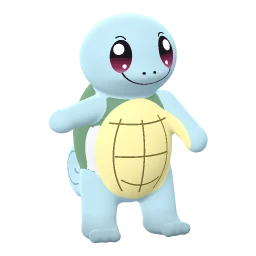
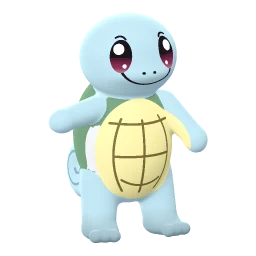
fix(models): Wingull's wings are long and broad like the art, tapering to a deep swallowtail fork instead of thin planks, Squirtle's mouth, brows, shell seams and tail curl are drawn thicker so they stay smooth up close, and Tyler's hood lining runs only round the back and sides so it stops flecking

diff --git a/src/game/scene/pokemon/recipes/007-squirtle.js b/src/game/scene/pokemon/recipes/007-squirtle.js
@@ -47,7 +47,7 @@ const spiral = () => {
     const mid = ((phi - 45) * Math.PI) / 180, end = ((phi - 90) * Math.PI) / 180;
     const m = 0.854 * r;
     // decal frame on the +x face (dir +x): u = -z, v = +y, so turn = 90 deg - mid puts a frown's apex along mid
-    out.push({ kind: "frown", at: [0.09, c[1] + m * Math.sin(mid), c[0] + m * Math.cos(mid)], dir: [1, 0, 0], w: 1.414 * r, h: 0.293 * r, thick: 0.0075, turn: Math.PI / 2 - mid, color: CURL, lit: true, mirror: true });
+    out.push({ kind: "frown", at: [0.09, c[1] + m * Math.sin(mid), c[0] + m * Math.cos(mid)], dir: [1, 0, 0], w: 1.414 * r, h: 0.293 * r, thick: 0.011, turn: Math.PI / 2 - mid, color: CURL, lit: true, mirror: true });
     const next = rho[k + 1];
     if (next) c = [c[0] + (r - next) * Math.cos(end), c[1] + (r - next) * Math.sin(end)];
     phi -= 90;
@@ -69,8 +69,9 @@ const toes = () =>
 // rim band in the side plane, (z, y): front edge tucked under the plastron's edge, back edge just past the widest point
 const RIM_BAND = [[0.105, 0.505], [0.122, 0.42], [0.118, 0.34], [0.095, 0.285], [0.055, 0.268], [0.025, 0.3], [0.018, 0.4], [0.028, 0.485], [0.06, 0.522]];
 
-// a seam stroke on the plastron or a plate line on the carapace (lit decals: they shade with the shell)
-const stroke = (kind, at, w, h, turn = 0, color = SEAM, thick = 0.007) => ({ kind, at, w, h, thick, turn, color, lit: true });
+// a seam stroke on the plastron or a plate line on the carapace (lit decals: they shade with the shell), thick enough
+// to stay smooth up close (model-audit.md, smaller notes)
+const stroke = (kind, at, w, h, turn = 0, color = SEAM, thick = 0.011) => ({ kind, at, w, h, thick, turn, color, lit: true });
 
 const recipe = {
   name: "Squirtle",
@@ -127,9 +128,9 @@ const recipe = {
     ],
     mouth: [
       // a wide smile along the bottom of the snout, turning up at the ends
-      { kind: "smile", at: [0, 0.728, 0.23], w: 0.25, h: 0.035, thick: 0.007, color: DARK },
+      { kind: "smile", at: [0, 0.728, 0.23], w: 0.25, h: 0.035, thick: 0.011, color: DARK },
       // short brows over the eyes
-      { kind: "frown", at: [-0.105, 0.94, 0.165], w: 0.045, h: 0.01, thick: 0.006, turn: -0.15, color: DARK, mirror: true },
+      { kind: "frown", at: [-0.105, 0.94, 0.165], w: 0.045, h: 0.01, thick: 0.009, turn: -0.15, color: DARK, mirror: true },
       // plastron seams: the top band, the center column split in four, the bowed side seams
       stroke("smile", [0, 0.545, 0.18], 0.27, 0.025),
       stroke("line", [0, 0.375, 0.2], 0.33, 0.01, Math.PI / 2),
@@ -138,10 +139,10 @@ const recipe = {
       stroke("smile", [-0.125, 0.385, 0.165], 0.33, 0.03, -Math.PI / 2),
       stroke("smile", [0.125, 0.385, 0.165], 0.33, 0.03, Math.PI / 2),
       // faint plate lines on the carapace (Showdown back): a center seam, an arc across the upper back, a V below
-      stroke("line", [0, 0.47, -0.27], 0.26, 0.01, Math.PI / 2, PLATE, 0.006),
-      stroke("frown", [0, 0.56, -0.25], 0.26, 0.03, 0, PLATE, 0.006),
-      stroke("line", [-0.075, 0.33, -0.25], 0.17, 0.01, -0.75, PLATE, 0.006),
-      stroke("line", [0.075, 0.33, -0.25], 0.17, 0.01, 0.75, PLATE, 0.006),
+      stroke("line", [0, 0.47, -0.27], 0.26, 0.01, Math.PI / 2, PLATE, 0.009),
+      stroke("frown", [0, 0.56, -0.25], 0.26, 0.03, 0, PLATE, 0.009),
+      stroke("line", [-0.075, 0.33, -0.25], 0.17, 0.01, -0.75, PLATE, 0.009),
+      stroke("line", [0.075, 0.33, -0.25], 0.17, 0.01, 0.75, PLATE, 0.009),
       // the spiral line on both faces of the tail curl
       ...spiral(),
     ],

diff --git a/src/game/scene/pokemon/recipes/278-wingull.js b/src/game/scene/pokemon/recipes/278-wingull.js
@@ -1,4 +1,4 @@
-// Wingull (#278). Gliding over the harbor: wings straight out as flat planks with a little dihedral, tail fanned,
+// Wingull (#278). Gliding over the harbor: long broad wings straight out with a little dihedral, tail fanned,
 // feet tucked. Shape checked against art-278, home-278, the GO renders (Serebii go-278, PokeMiners pm278) and the
 // Showdown 3D front/back (ani-wingull, ani-back-wingull). Numbers: notes/research/species-4.md (Wingull), corrections
 // in notes/research/model-facts-2.md.
@@ -40,9 +40,9 @@ const WING_FRAME = ["x", Math.PI / 2];
 // Fan frame: an outline (a, b) with a = across (+x), b = backward (-z), thickness along y.
 const FAN_FRAME = ["x", -Math.PI / 2];
 
-// Wing: a straight plank, constant chord 0.056, swept back 0.03 at the tip, ending in a swallowtail fork (two points of
-// near equal length, the notch 0.03 deep). (outward, forward) from the root.
-const WING = [[-0.01, 0.031], [0.2, 0.0175], [0.44, 0.004], [0.465, -0.001], [0.469, -0.01], [0.455, -0.021], [0.41, -0.033], [0.452, -0.05], [0.46, -0.06], [0.44, -0.064], [0.2, -0.0445], [-0.01, -0.031]];
+// Wing: long and broad like the art and HOME (chord 0.11 at the root, tapering to 0.08 by the band, model-audit.md 5),
+// ending in a swallowtail fork, two points with a V notch 0.055 deep between them. (outward, forward) from the root.
+const WING = [[-0.01, 0.05], [0.15, 0.042], [0.3, 0.034], [0.42, 0.028], [0.465, 0.02], [0.471, 0.011], [0.415, -0.002], [0.462, -0.022], [0.458, -0.034], [0.42, -0.044], [0.3, -0.048], [0.15, -0.052], [-0.01, -0.058]];
 const ROOT = P(0.045, 0.008, -0.035);
 const DIHEDRAL = 0.105; // 6 deg, tips up
 const WING_TURN = turn(WING_FRAME, ["z", DIHEDRAL]);

diff --git a/src/game/scene/pokemon/recipes/trainer-tyler.js b/src/game/scene/pokemon/recipes/trainer-tyler.js
@@ -231,9 +231,10 @@ function tyler(o) {
   paint.push({ name: "hood", color: C.jacket, shape: { kind: "chain", points: hoodPts.map((p, i) => [p[0], p[1], p[2], p[3] + (i === 0 || i === hoodPts.length - 1 ? 0.003 : 0.012)]) }, bones: ["chest"] });
   paint.push({ name: "hoodBack", color: C.jacket, shape: { kind: "ellipsoid", at: hoodBack.at, r: hoodBack.r.map((v) => v + 0.012), turn: hoodBack.turn }, bones: ["chest"] });
   const neckC = [0, Y(0.95), -0.03];
-  const lining = hoodPts.map((p) => {
+  // only round the back and sides (at the open front it broke into white flecks), and thick enough to read as one line
+  const lining = hoodPts.slice(2, -2).map((p) => {
     const d = unit([neckC[0] - p[0], 0, neckC[2] - p[2]]);
-    return [p[0] + d[0] * p[3] * 0.55, p[1] + p[3] * 0.62, p[2] + d[2] * p[3] * 0.55, p[3] * 0.62];
+    return [p[0] + d[0] * p[3] * 0.55, p[1] + p[3] * 0.62, p[2] + d[2] * p[3] * 0.55, p[3] * 0.62 + 0.004];
   });
   paint.push({ name: "lining", color: C.lining, shape: { kind: "chain", points: lining }, bones: ["chest"] });
   // clean hair edges on the sides and back: hair above the line of his short sides (in front of the ear, over it,
